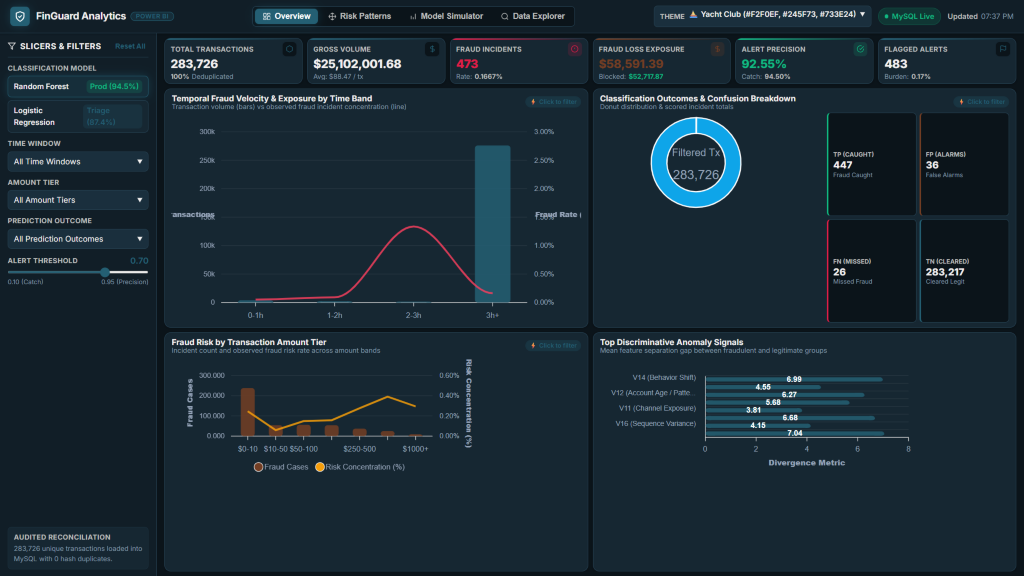
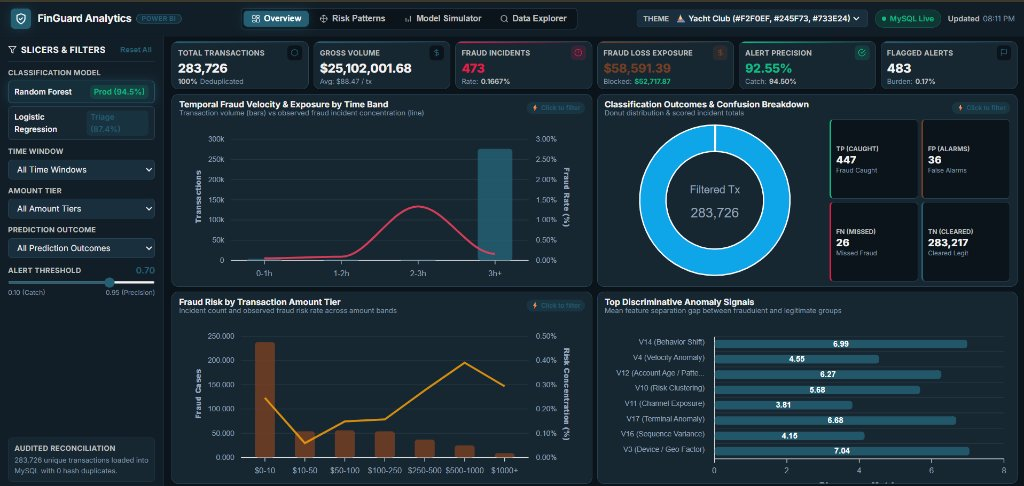
Update Executive Overview screenshot and remove cross-filtering showcase

diff --git a/README.md b/README.md
@@ -25,7 +25,6 @@
   - [2. Financial Risk Patterns & Exposure](#2-financial-risk-patterns--exposure)
   - [3. What-If Decision Simulator](#3-what-if-decision-simulator)
   - [4. Transaction Data Explorer](#4-transaction-data-explorer)
-  - [5. Dynamic Power BI-Style Cross-Filtering](#5-dynamic-power-bi-style-cross-filtering)
 - [🚀 Key Features & Capabilities](#-key-features--capabilities)
 - [🛠 Technology Stack](#-technology-stack)
 - [🏗 System Architecture & Data Flow](#-system-architecture--data-flow)
@@ -76,11 +75,6 @@ Interactive slider enabling fraud risk teams to simulate any decision threshold 
 High-performance searchable transaction ledger with live text searching, column sorting, server-side pagination, CSV data export, and deep PCA feature divergence modals.
 
 ![Transaction Data Explorer](screenshots/04_data_explorer.png)
-
-### 5. Dynamic Power BI-Style Cross-Filtering
-Clicking any chart element (e.g., the *2-3h Peak Surge* window) or toggling sidebar slicers triggers the in-memory OLAP cube to recalculate all 6 KPIs and update all visualizations in sub-milliseconds with an active filter ribbon.
-
-![Dynamic Cross-Filtering](screenshots/05_cross_filtering_interaction.png)
 
 ---
 
@@ -236,8 +230,7 @@ Banking-Fraud-Detection-Financial-Risk-Analytics-Platform/
 │   ├── 01_executive_overview.png       # Executive Overview tab
 │   ├── 02_risk_patterns.png            # Financial Risk Patterns tab
 │   ├── 03_model_simulator.png          # What-If Decision Simulator tab
-│   ├── 04_data_explorer.png            # Transaction Data Explorer tab
-│   └── 05_cross_filtering_interaction.png # Dynamic cross-filtering demonstration
+│   └── 04_data_explorer.png            # Transaction Data Explorer tab
 ├── scripts/
 │   ├── build_standalone_dashboard.py   # Compiles offline standalone HTML report
 │   ├── generate_reports.py             # Generates executive summary documentation
